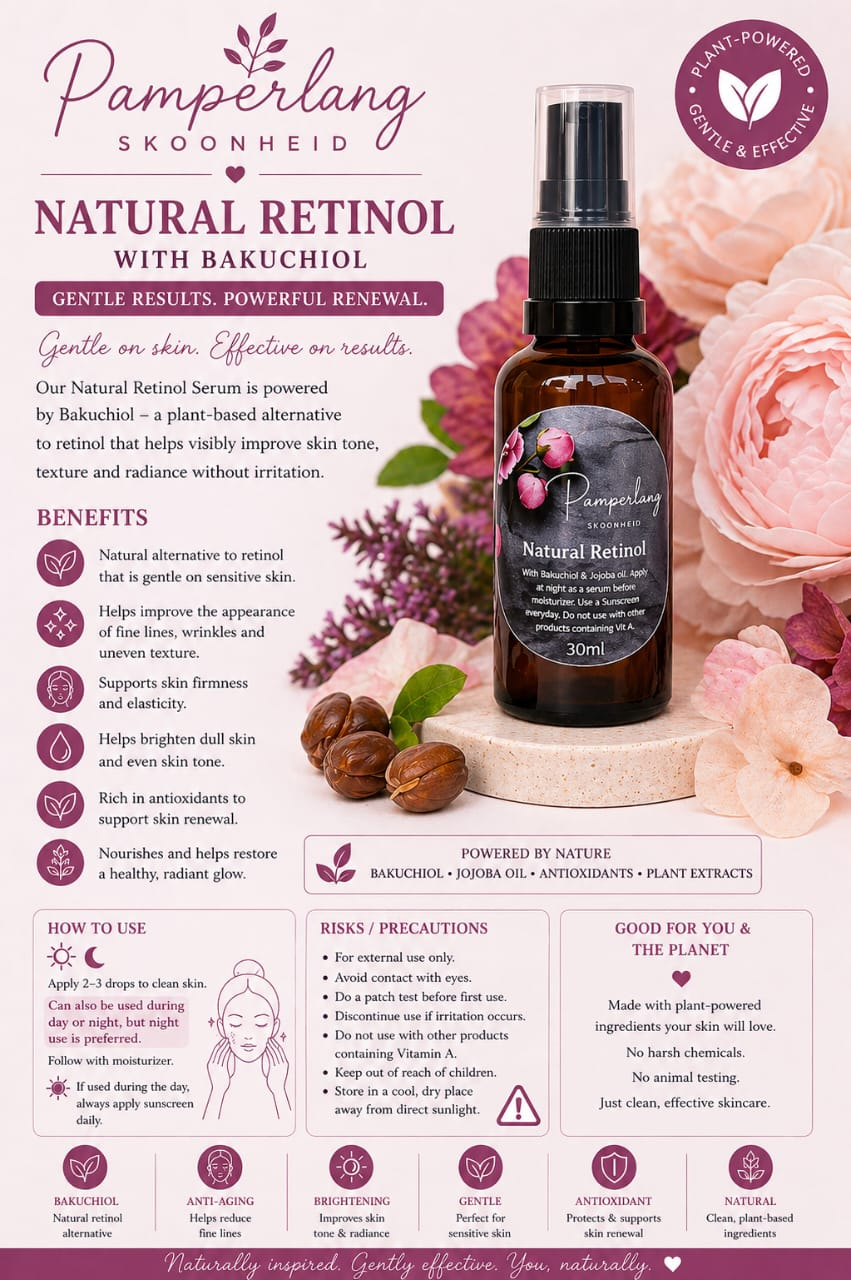
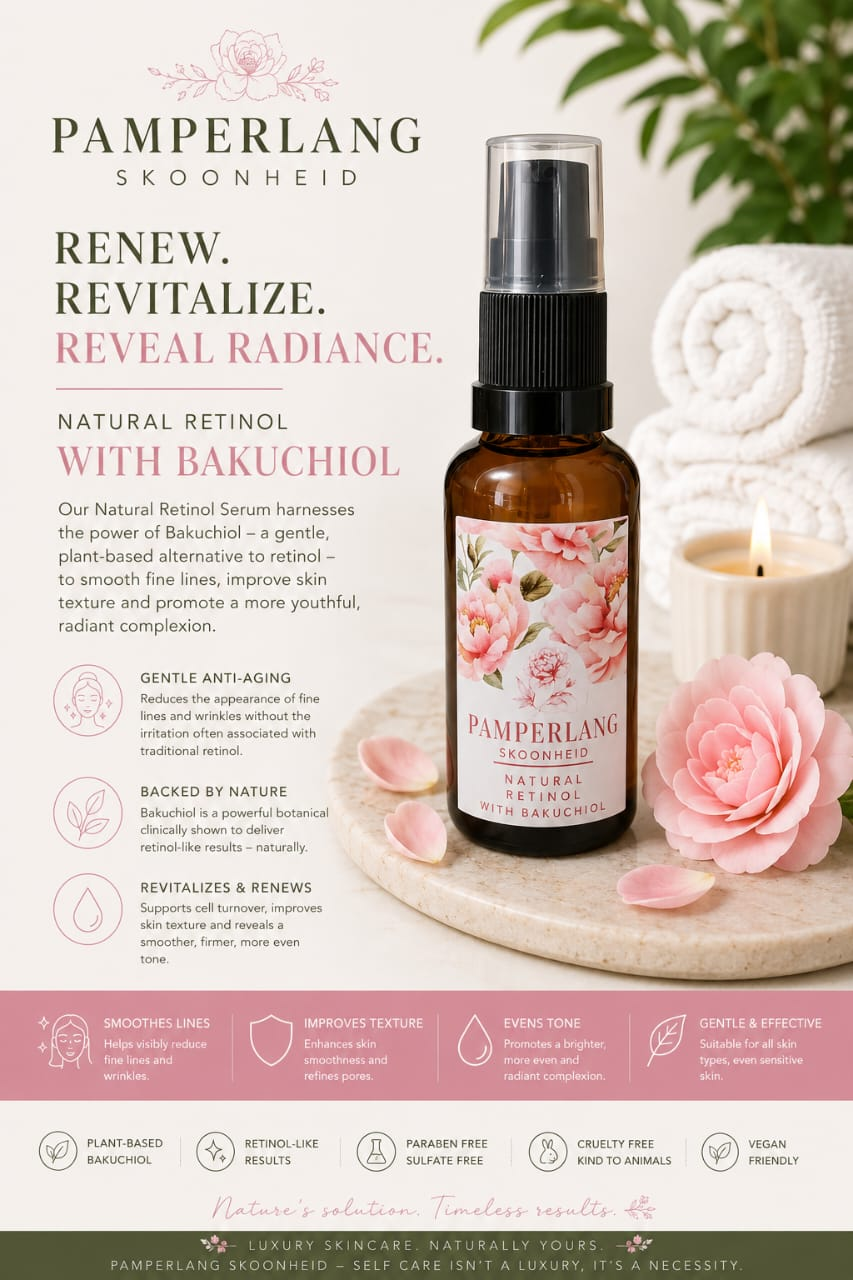
Swap in new branded promo card images for facial skincare range
Replaced plain product photos with Pamperlang's new marketing card
graphics (ingredients, benefits, key claims) for 16 facial skincare
products. Added a "Complete Skincare For Every Step" collection
banner right under the hero.

diff --git a/index.html b/index.html
@@ -1713,6 +1713,13 @@
     </div>
   </section>
 
+  <!-- Full Collection Banner -->
+  <section class="promo-banner-section" id="collection-banner" style="background: linear-gradient(135deg, #fbf1f4 0%, #fffbfb 60%, #f2cdd6 100%);">
+    <div class="promo-banner-inner" style="max-width: 480px;">
+      <img src="pamperlang-collection-hero.jpeg" alt="Pamperlang Skoonheid — Nourish. Restore. Glow. Complete natural skincare for every step: washes, toners, serums and moisturizers." class="promo-banner-img">
+    </div>
+  </section>
+
   <!-- Trust Strip -->
   <div class="trust-strip">
     <div class="trust-item"><strong>Worcester</strong>Based in</div>
